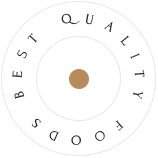
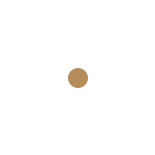
Add quality, add section quality to html

diff --git a/assets/scss/styles.css b/assets/scss/styles.css
@@ -1,4 +1,4 @@
-button {
+.book button {
   background-color: #C8A96A;
   border: none;
   border-radius: 5px;
@@ -6,10 +6,23 @@ button {
   display: flex;
   align-items: center;
   gap: 5px;
-  padding: 25px;
-  margin-top: 25px;
+  padding: 20px 40px;
+  margin-top: 35px;
+  font-size: 1.2rem;
 }
-button img {
+.book button img {
+  width: 10px;
+  height: 10px;
+  filter: invert(100%);
+}
+
+.explore {
+  background-color: transparent;
+  color: white;
+  padding: 20px;
+  font-size: 1.2rem;
+}
+.explore img {
   width: 10px;
   height: 10px;
   filter: invert(100%);
@@ -29,10 +42,11 @@ header {
   flex-direction: row;
   justify-content: space-around;
   margin: 0 auto;
+  z-index: -2;
 }
 
 .logo {
-  margin-top: 25px;
+  margin-top: 35px;
 }
 .logo img {
   width: 200px;
@@ -80,12 +94,22 @@ header {
 .phone {
   display: flex;
   flex-direction: row;
-  gap: 2px;
+  gap: 5px;
   color: white;
-  margin-top: 25px;
+  margin-top: 45px;
 }
 .phone .phone-img {
   width: 25px;
   height: 25px;
   transform: translateY(10px);
+}
+
+.quality .img-quality {
+  width: 200px;
+  height: 200px;
+}
+
+h1 {
+  color: white;
+  font-size: 100px;
 }

diff --git a/assets/scss/components/_button.scss b/assets/scss/components/_button.scss
@@ -1,14 +1,31 @@
-button{
-    background-color: $--gold;
-    border: none;
-    border-radius: 5px;
-    color: white;
-    display: flex;
-    align-items: center;
-    gap: 5px;
-    padding: 25px;
-    margin-top: 25px;
+.book{
     
+     button{
+     background-color: $--gold;
+     border: none;
+     border-radius: 5px;
+     color: white;
+     display: flex;
+     align-items: center;
+     gap: 5px;
+     padding: 20px 40px;
+     margin-top: 35px;
+     font-size: 1.2rem;
+     
+         img{
+             width: 10px;
+             height: 10px;
+             filter: invert(100%);
+         }
+    }
+}
+
+.explore{
+    background-color: transparent;
+    color: white;
+    padding: 20px;
+    font-size: 1.2rem;
+
     img{
         width: 10px;
         height: 10px;

diff --git a/index.html b/index.html
@@ -51,9 +51,9 @@
     <main>
 
         <section class="quality">
+            <img src="assets/storage/best-quality.png" alt="best-quality" class="img-quality">
             <h1> BEST QUALITY FOODS</h1>
-            <img src="assets/storage/best-quality.png" alt="best-quality">
-            <button> Explore our menu <img src="assets/storage/arrow.png" alt="arrow"> </button>
+            <button class="explore"> Explore our menu <img src="assets/storage/arrow.png" alt="arrow"> </button>
         </section>
         
 

diff --git a/assets/scss/layouts/_header.scss b/assets/scss/layouts/_header.scss
@@ -12,12 +12,13 @@ header{
     flex-direction: row;
     justify-content: space-around;
     margin: 0 auto;
+    z-index: -2;
     
 
 }
 
 .logo{
-    margin-top: 25px;
+    margin-top: 35px;
     
     img{
         width: 200px;

diff --git a/assets/scss/layouts/_quality.scss b/assets/scss/layouts/_quality.scss
@@ -1,0 +1,14 @@
+.quality{
+    
+
+    .img-quality{
+        width: 200px;
+        height: 200px;
+        // float: right;
+        // margin: 5px;
+    }
+}
+    h1{
+        color: white;
+        font-size: 100px;
+    }

diff --git a/assets/scss/layouts/_phone.scss b/assets/scss/layouts/_phone.scss
@@ -1,9 +1,9 @@
 .phone{
     display: flex;
     flex-direction: row;
-    gap: 2px;
+    gap: 5px;
     color: white;
-    margin-top: 25px;
+    margin-top: 45px;
 
     .phone-img{
         width: 25px;

diff --git a/assets/scss/layouts/__layouts-dir.scss b/assets/scss/layouts/__layouts-dir.scss
@@ -3,3 +3,5 @@
 @import "_navigation";
 
 @import "_phone";
+
+@import "_quality";
